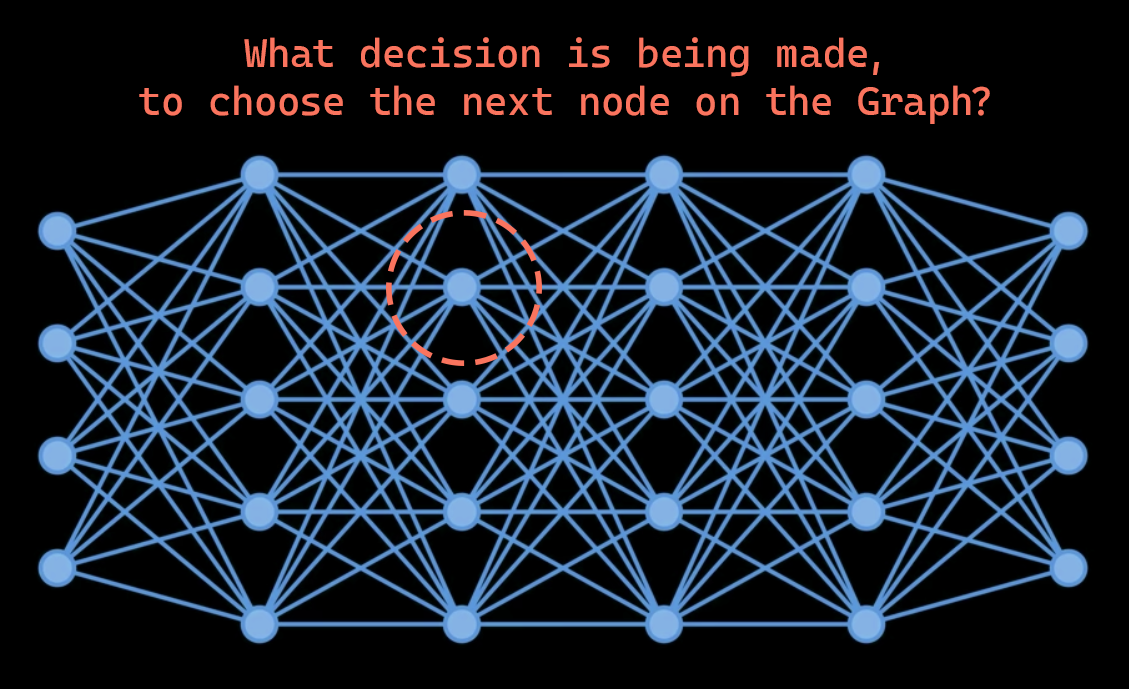
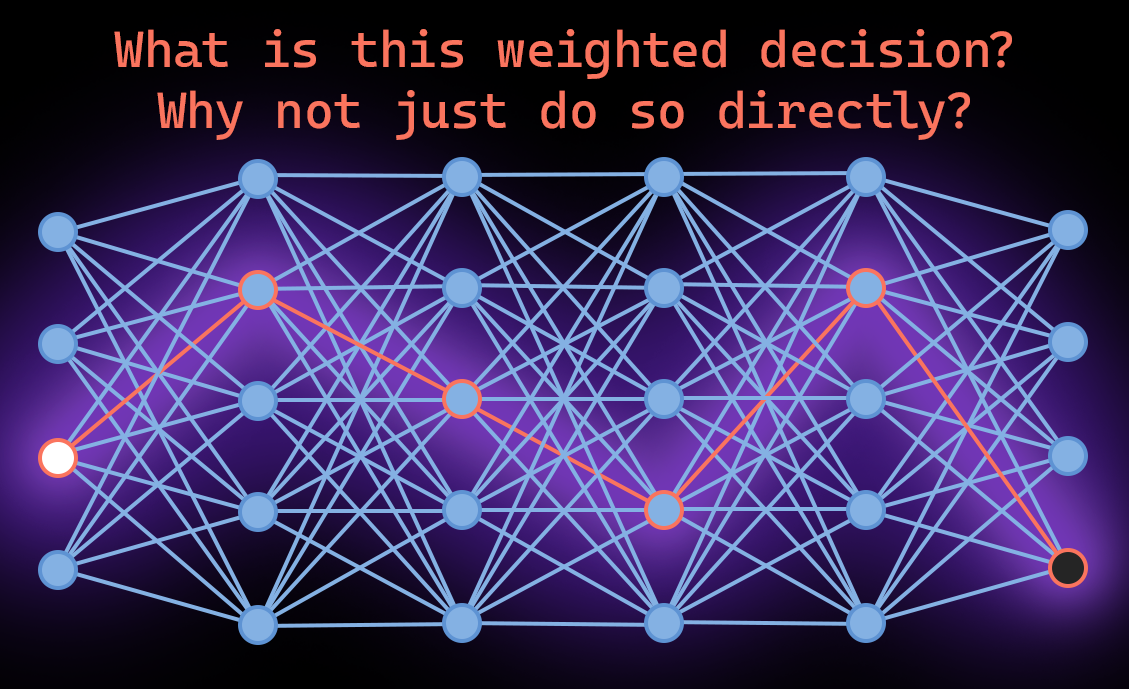
Not Tripping over my own Tail.

diff --git a/README.md b/README.md
@@ -53,9 +53,9 @@ In addition, Principles here act as a Containing Observer that allows for utiliz
 
 The above would be some Neural Network's Universal Function made to fit some Unknown Function via a Fourier Transform. If we know the Function ahead of the Time we may Set the Weights Specifically to Represent that Function. The Question that is Obfuscated in current understanding is by what mechanism is this Neural Network choosing the next Node on the Graph to Determine its Output?
 
-![Neural Network Diagram, Credit to Emergent Garden @Youtube](https://github.com/Phuire-Research/STRX/blob/main/NeuralNetwork.png?raw=true)
+![Neural Network Diagram](https://github.com/Phuire-Research/STRX/blob/main/NeuralNetwork.png?raw=true)
 
-The reason for STRX's Recursive Functionality, is that the Life Time of One Action within the Mode is the Exact point of Comparison between that of a Universal Function and the Possible Node Selection in the Graph Above. As the Method allows for the Next Node to via some Logical Deterministic Instruction via its Method. But the Entire Function is the Net Run Time of that Action through the Axium's Mode. As the Mode is just a Function that Relays to embedded Functions of that of a Reducer and Method. And a Function is allowed to be Composed of Functions. Therefore what is Obfuscated within Networks, is not only the Function Themselves, but the Decisions made between the Neural Networks nodes that Control its Output, based on some Input.
+The reason for STRX's Recursive Functionality, is that the Life Time of an ActionStrategy is the Exact point of Comparison between that of a set of Universal Functions and the Possible Node Selection in the Graph Above. But Direct and without the Need to Calculate the others Nodes in the Network. As the Method allows for the Next Node to via some Logical Deterministic Instruction via its Method. But the Entire Function is the Net Run Time of that Action through the Axium's Mode. As the Mode is just a Function that Relays to embedded Functions of that of a Reducer and Method. And a Function is allowed to be Composed of Functions. Therefore what is Obfuscated within Networks, is not only the Function Themselves, but the Decisions made between the Neural Networks nodes that Control its Output, based on some Input.
 
 This is what Allows for STRX to act as a Comparable Mirror to that of a Neural Network. Except that it is Transparent. And if One Accepts some Logical Determinism where we can Disclude Specific Symbols. Noting that the Quality selection is by way of Semaphore versus Type Comparison of its Inspiration. Then this System can be Proven to Halt via some Specific Configurations of Concepts and their Qualities. As the Semaphore is the Finite Symbol Reference Table of a Classical Turing Machine. Except here it is Fully Dynamic and may Expand or Reduce in its Possible Finite Symbol Selection at Run Time.
 
